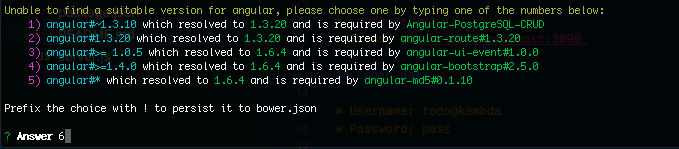
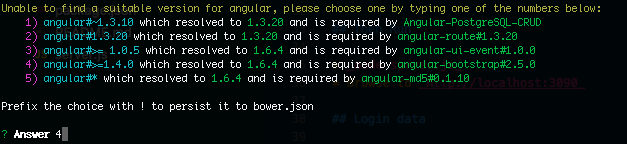
Changing text Option 4 not 6 …

diff --git a/README.md b/README.md
@@ -21,7 +21,7 @@ Based on Michael Cullen Todo (https://github.com/mick26/CRUD-todo-Node-Exp-ng-Po
 * Clone the Repository
 * _npm install_ - install all the node packages listed in the package.json file 
 * _bower install_ - installs the front end packages listed in the bower.json file
-* Select option 6 as indicated in image
+* Select option 4 as indicated in image
 
 <div align="center">
 		<img width="95%" src="screenshot/bower_option.png" alt="Todos" title="Todos">
